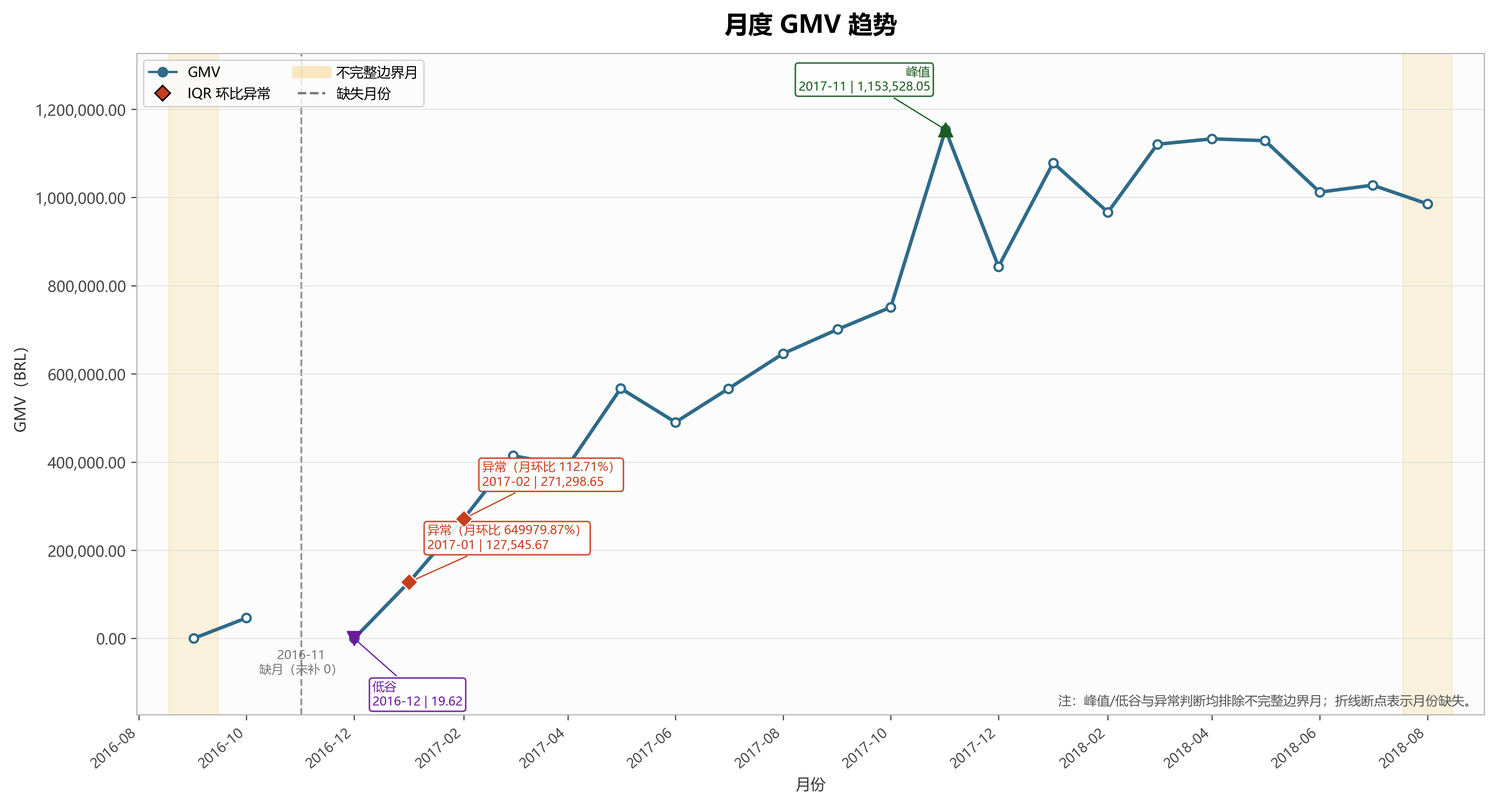
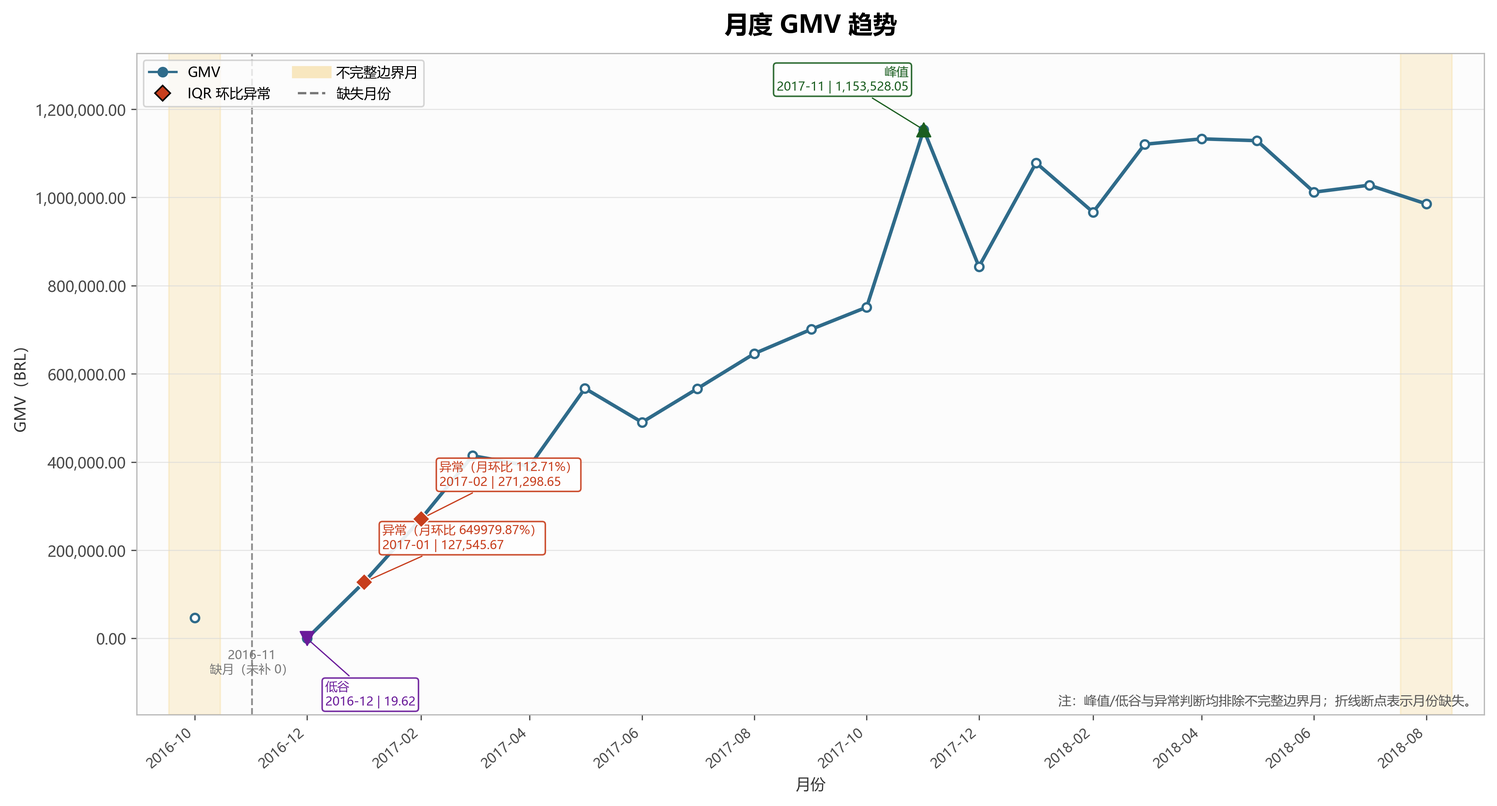
fix: update business overview metrics and reports

diff --git a/src/analysis/business_overview/business_overview_trends.py b/src/analysis/business_overview/business_overview_trends.py
@@ -28,12 +28,12 @@ from matplotlib.lines import Line2D
 from matplotlib.ticker import FuncFormatter, MaxNLocator
 
 
-ROOT = Path(__file__).resolve().parents[2]
+ROOT = Path(__file__).resolve().parents[3]
 DEFAULT_CSV = ROOT / "outputs/data/02_business_overview/monthly_kpi.csv"
 DEFAULT_DB = ROOT / "database/brazil_ecommerce.db"
-FIGURE_DIR = ROOT / "outputs/figures/02_business_overview"
+FIGURE_DIR = ROOT / "visualizations/business_overview"
 DIAGNOSTIC_CSV = ROOT / "outputs/data/02_business_overview/monthly_trend_diagnostics.csv"
-REPORT_PATH = ROOT / "reports/02_business_overview/business_trend_analysis.md"
+REPORT_PATH = ROOT / "reports/business_analysis/business_trend_analysis.md"
 
 EXPECTED_COLUMNS = [
     "month",
@@ -55,7 +55,7 @@ METRICS = {
     "order_count": {
         "title": "月度订单量趋势",
         "label": "订单量",
-        "ylabel": "有效订单量（单）",
+        "ylabel": "正支付已送达订单量（单）",
         "color": "#3A8D75",
         "money": False,
         "filename": "02_order_count_trend.png",
@@ -205,8 +205,7 @@ def read_and_validate(csv_path: Path, database_path: Path) -> tuple[pd.DataFrame
 
 def add_diagnostics(df: pd.DataFrame) -> tuple[pd.DataFrame, dict[str, tuple[float, float]]]:
     result = df.copy()
-    first_month, last_month = result["month"].iloc[[0, -1]]
-    result["is_boundary_month"] = result["month"].isin([first_month, last_month])
+    result["is_boundary_month"] = result["month"].isin(["2016-09", "2018-08"])
     month_number = result["date"].dt.year * 12 + result["date"].dt.month
     result["previous_observed_month"] = result["month"].shift(1)
     result["data_gap_before"] = ~month_number.diff().eq(1)
@@ -683,12 +682,12 @@ def generate_report(
 - 字段：`month`、`gmv`、`order_count`、`average_order_value`、`new_users`、`active_users`，与公共层字段完全一致。
 - 覆盖范围：{validation.start_month} 至 {validation.end_month}，共 {validation.row_count} 个观测月份；源文件按月升序，重复月份 {validation.duplicate_months} 个。
 - 缺失月份：{missing_text}。未填充为 0，图中的折线在缺月处主动断开。
-- 空值：{format_nulls(validation.null_counts)}。该空值位于覆盖初期边界月，符合 GMV 为 0、无有效支付订单时 AOV 返回 NULL 的既有口径。
+- 空值：{format_nulls(validation.null_counts)}。公共层仅保留正支付 delivered 订单，AOV 与订单量使用同一订单范围。
 - CSV 与数据库 View：{'完全一致' if validation.db_matches_csv else '不一致'}。
 
 ### 数据边界
 
-2016-09 是业务数据覆盖初期，仅从月中开始；2018-08 是数据截止月，未覆盖完整自然月。两个月均保留在图中并以黄色背景标注，但不参与正常峰值、低谷、环比异常阈值和业务阶段判断。2016-11 在公共层中缺失，报告与图表均保留这一时间缺口，不补 0。新增用户是观察期内首次产生 delivered 订单的用户，覆盖开始前历史缺失可能导致早期存量用户被识别为新增用户。
+全部 delivered 数据从 2016-09 月中开始，但该月唯一 delivered 订单没有正支付，因此不进入本支付型公共层。2018-08 是数据截止月，未覆盖完整自然月，保留在图中并以黄色背景标注，但不参与正常峰值、低谷、环比异常阈值和业务阶段判断。2016-11 在公共层中缺失，报告与图表均保留这一时间缺口，不补 0。新增用户是观察期内首次产生正支付 delivered 订单的用户，覆盖开始前历史缺失可能导致早期存量用户被识别为新增用户。
 
 ## 2. 五项核心指标总体趋势
 
@@ -698,11 +697,11 @@ def generate_report(
 - **新增用户：** {overall_trend_text(df, 'new_users')}
 - **活跃用户：** {overall_trend_text(df, 'active_users')}
 
-![核心指标总览](../../outputs/figures/02_business_overview/06_core_metrics_overview.png)
+![核心指标总览](../../visualizations/business_overview/06_core_metrics_overview.png)
 
 ## 3. 业务阶段划分
 
-阶段划分只使用 GMV、订单量、新增用户、活跃用户四项共同趋势，排除 2016-09 和 2018-08。方法是对四指标做 `log1p` 与标准化，对 1—4 个有序阶段进行动态规划（每段至少 3 个观测月），以段内平方误差最小并用 BIC 惩罚段数；BIC 越低越优。本次结果为：{bic_text}，自动选择 {len(stages)} 个阶段。缺失的 2016-11 不参与拟合，也未补值。
+阶段划分只使用 GMV、订单量、新增用户、活跃用户四项共同趋势，排除不完整的 2018-08。方法是对四指标做 `log1p` 与标准化，对 1—4 个有序阶段进行动态规划（每段至少 3 个观测月），以段内平方误差最小并用 BIC 惩罚段数；BIC 越低越优。本次结果为：{bic_text}，自动选择 {len(stages)} 个阶段。缺失的 2016-11 不参与拟合，也未补值。
 
 | 阶段 | 起止月份 | 观测月数 | 主要变化 | 共同趋势依据 |
 |---|---|---:|---|---|

diff --git a/docs/monthly_kpi_dictionary.md b/docs/monthly_kpi_dictionary.md
@@ -2,25 +2,25 @@
 
 ## 1. 数据层用途
 
-`monthly_kpi` 是阶段二 Member 1 提供给 Member 2 和 Member 3 统一使用的月度公共数据层。它集中计算 GMV、有效订单量、客单价、新增用户数和活跃用户数，避免成员重复计算基础指标或采用不一致口径。本层仅提供公共指标结果，不包含趋势、增长率、季节性、地域、品类、留存或可视化分析。
+`monthly_kpi` 是阶段二 Member 1 提供给 Member 2 和 Member 3 统一使用的支付型月度公共数据层。它集中计算同一批“正支付且已送达”订单的 GMV、订单量、客单价、新增用户数和活跃用户数，避免一张公共表混合全部 delivered 与正支付 delivered 两种订单范围。本层仅提供公共指标结果，不包含趋势、增长率、季节性、地域、品类、留存或可视化分析。
 
-数据层粒度为“存在 delivered 订单的自然月”，每月最多一行。`month` 采用 `YYYY-MM` 格式，底层时间字段统一为 `orders.order_purchase_timestamp`（实际通过 `vw_orders_clean.order_purchase_timestamp` 使用）。
+数据层粒度为“存在正支付 delivered 订单的自然月”，每月最多一行。`month` 采用 `YYYY-MM` 格式，底层时间字段统一为 `orders.order_purchase_timestamp`（实际通过 `vw_orders_clean.order_purchase_timestamp` 使用）。未支付或订单级正支付金额不大于 0 的 delivered 订单仍保留在有效订单基础指标中，但不进入本支付型公共层。
 
 ## 2. 字段说明
 
 ### `month`
 
 - 中文名称：月份
-- 业务定义：有效订单按购买时间归属的自然月，是本公共层的唯一维度。
+- 业务定义：正支付 delivered 订单按购买时间归属的自然月，是本公共层的唯一维度。
 - 计算公式：`STRFTIME('%Y-%m', vw_orders_clean.order_purchase_timestamp)`。
 - 数据来源：`vw_orders_clean`（来源于 `orders`）。
 - 时间字段：`orders.order_purchase_timestamp`。
 - 统计粒度：自然月，格式为 `YYYY-MM`。
-- 订单状态范围：`orders.order_status = 'delivered'`。
+- 订单状态范围：`orders.order_status = 'delivered'`，且订单级正支付金额大于 0。
 - 去重字段：按月份分组；月内订单以 `orders.order_id` 去重。
 - 空值及异常处理：购买时间为空、不可解析或无法生成 `YYYY-MM` 的记录不计入；`vw_orders_clean` 已排除关键时间无效记录。
 - 适用范围：作为五项月度 KPI 的统一月份键。
-- 使用限制：仅输出存在 delivered 订单的月份，不人为补月；缺失月份应单独检查和披露。
+- 使用限制：仅输出存在正支付 delivered 订单的月份，不人为补月；只有未支付 delivered 订单的月份不会出现在本表中，缺失月份应结合全部 delivered 订单另行检查和披露。
 
 ### `gmv`
 
@@ -32,64 +32,64 @@
 - 统计粒度：支付明细先聚合至订单级，再按自然月汇总。
 - 订单状态范围：`orders.order_status = 'delivered'`，且订单级有效支付金额大于 0。
 - 去重字段：支付先按 `orders.order_id` 聚合，订单连接后仍以 `order_id` 为粒度。
-- 空值及异常处理：排除 `payment_value` 为 NULL、0 或负数的支付记录；没有有效支付记录的 delivered 订单不产生 GMV；无 GMV 的有效订单月份返回 `0.0`。
+- 空值及异常处理：排除 `payment_value` 为 NULL、0 或负数的支付记录；没有订单级正支付金额的 delivered 订单不进入本公共层。
 - 适用范围：衡量月度平台支付金额口径的成交规模。
 - 使用限制：不得将支付表与商品、评论等其他一对多表直接连接后汇总；GMV 与基于 `order_items.price` 的商品销售额不是同一口径。
 
 ### `order_count`
 
-- 中文名称：有效订单量
-- 业务定义：当月状态为 delivered 的去重订单数量，不受订单是否存在有效支付记录影响。
+- 中文名称：正支付已送达订单量
+- 业务定义：当月订单级正支付金额大于 0 且状态为 delivered 的去重订单数量。
 - 计算公式：`COUNT(DISTINCT orders.order_id)`。
-- 数据来源：`vw_orders_clean`（来源于 `orders`）。
+- 数据来源：`vw_orders_clean`（来源于 `orders`）和按 `order_id` 汇总后的 `vw_order_payments_clean`（来源于 `order_payments`）。
 - 时间字段：`orders.order_purchase_timestamp`。
 - 统计粒度：自然月 × 订单级。
-- 订单状态范围：`orders.order_status = 'delivered'`。
+- 订单状态范围：`orders.order_status = 'delivered'`，且订单级正支付金额大于 0。
 - 去重字段：`orders.order_id`。
-- 空值及异常处理：`order_id` 为空或购买时间无效的记录不计入；公共层以存在 delivered 订单的月份为基表，因此该字段不为 NULL。
-- 适用范围：衡量月度有效成交订单规模。
-- 使用限制：不能用支付明细数、商品明细数、评论数或有效支付订单量替代；字段名固定为 `order_count`。
+- 空值及异常处理：`order_id` 为空、购买时间无效或订单级正支付金额不大于 0 的记录不计入；该字段不为 NULL。
+- 适用范围：衡量月度正支付且已送达的成交订单规模。
+- 使用限制：不能用支付明细数、商品明细数、评论数或全部 delivered 有效订单量替代；字段名继续固定为 `order_count`，但其范围由本公共层的正支付 delivered 过滤条件限定。
 
 ### `average_order_value`
 
 - 中文名称：客单价
 - 业务定义：当月有效支付且已送达订单的支付金额总和，除以同口径有效支付订单量。
-- 计算公式：`average_order_value = gmv / paid_order_count`；其中 `paid_order_count` 为状态 delivered、订单级有效支付金额大于 0、按 `order_id` 去重的订单量。
+- 计算公式：`average_order_value = gmv / order_count`；本表的 `order_count` 已限定为状态 delivered、订单级正支付金额大于 0、按 `order_id` 去重的订单量。
 - 数据来源：`vw_order_payments_clean`（来源于 `order_payments`）和 `vw_orders_clean`（来源于 `orders`）。GMV 与 AOV 共用同一个订单级支付 CTE。
 - 时间字段：`orders.order_purchase_timestamp`。
 - 统计粒度：自然月；底层支付先聚合至订单级。
 - 订单状态范围：`orders.order_status = 'delivered'`，且订单级有效支付金额大于 0。
 - 去重字段：分母按 `orders.order_id` 去重。
-- 空值及异常处理：排除无有效支付、支付金额为空或非正的订单；`paid_order_count = 0` 时返回 NULL，不改用 `order_count`。
+- 空值及异常处理：排除无有效支付、支付金额为空或非正的订单；`order_count = 0` 时返回 NULL。
 - 适用范围：衡量月度有效支付订单的平均支付金额。
-- 使用限制：分母不是全部 delivered 订单量 `order_count`；内部字段 `paid_order_count` 不进入最终 View 或 CSV。
+- 使用限制：分母不是平台全部 delivered 有效订单量，而是本支付型公共层中的 `order_count`。
 
 ### `new_users`
 
 - 中文名称：新增用户数
-- 业务定义：完整数据观察期内首次产生 delivered 订单，且首购自然月等于统计月份的去重用户数量。
-- 计算公式：先按 `customers.customer_unique_id` 计算完整 delivered 历史中的 `MIN(orders.order_purchase_timestamp)`，再按首购月份 `COUNT(*)`。
+- 业务定义：完整数据观察期内首次产生正支付 delivered 订单，且首次正支付购买自然月等于统计月份的去重用户数量。
+- 计算公式：先按 `customers.customer_unique_id` 计算完整正支付 delivered 历史中的 `MIN(orders.order_purchase_timestamp)`，再按首购月份 `COUNT(*)`。
 - 数据来源：`vw_orders_clean`（来源于 `orders`）和原始维表 `customers`；连接条件为 `orders.customer_id = customers.customer_id`。
 - 时间字段：`orders.order_purchase_timestamp`。
 - 统计粒度：自然月 × 用户首购。
-- 订单状态范围：仅使用 `orders.order_status = 'delivered'` 的订单确定首购。
+- 订单状态范围：仅使用 `orders.order_status = 'delivered'` 且订单级正支付金额大于 0 的订单确定首购。
 - 去重字段：`customers.customer_unique_id`。
 - 空值及异常处理：用户唯一标识或购买时间为空的记录不计入；首购时间先基于完整历史计算；同一用户只归属一个首购月份；无新增用户的结果月份返回 0。
 - 适用范围：衡量数据观察期口径下的月度首次购买用户规模。
-- 使用限制：新增用户不是注册用户；观察期开始前历史缺失可能将存量用户误判为新增用户，不能在每个月内部重新计算首购。
+- 使用限制：这里是“首次正支付购买用户”，不是注册用户，也不等同于基于全部 delivered 订单定义的新增用户；观察期开始前历史缺失可能将存量用户误判为新增用户，不能在每个月内部重新计算首购。
 
 ### `active_users`
 
 - 中文名称：活跃用户数
-- 业务定义：当月至少产生一笔 delivered 订单的去重用户数量。
+- 业务定义：当月至少产生一笔正支付 delivered 订单的去重用户数量。
 - 计算公式：`COUNT(DISTINCT customers.customer_unique_id)`。
 - 数据来源：`vw_orders_clean`（来源于 `orders`）和原始维表 `customers`；连接条件为 `orders.customer_id = customers.customer_id`。
 - 时间字段：`orders.order_purchase_timestamp`。
 - 统计粒度：自然月 × 用户级。
-- 订单状态范围：`orders.order_status = 'delivered'`。
+- 订单状态范围：`orders.order_status = 'delivered'`，且订单级正支付金额大于 0。
 - 去重字段：`customers.customer_unique_id`；不得使用 `customer_id` 作为最终去重字段。
 - 空值及异常处理：用户唯一标识为空的记录不计入；无活跃用户的结果月份返回 0。
-- 适用范围：衡量月度产生有效订单的唯一用户规模。
+- 适用范围：衡量月度产生正支付 delivered 订单的唯一用户规模。
 - 使用限制：不代表平台注册用户；不同月份的活跃用户可能重复，不能跨月直接相加解释为整个观察期的唯一活跃用户数。
 
 ## 3. 数据来源和连接关系
@@ -100,17 +100,17 @@
 - 支付连接：`vw_order_payments_clean.order_id = vw_orders_clean.order_id`，且连接发生在支付按 `order_id` 聚合之后。
 - 时间口径：`orders.order_purchase_timestamp`，按自然月统计，输出格式为 `YYYY-MM`。
 - 用户口径：`customers.customer_unique_id`，连接路径为 `orders.customer_id = customers.customer_id`。
-- 有效订单口径：`orders.order_status = 'delivered'`，订单按 `orders.order_id` 去重。
+- 本公共层订单口径：`orders.order_status = 'delivered'` 且订单级正支付金额大于 0，订单按 `orders.order_id` 去重。
 - 地域口径：阶段一指标定义手册未明确地域口径。本次不自行新增地域字段，也不生成地域分析结果。
 
 ## 4. 使用限制与数据覆盖披露
 
 - GMV 不能通过支付表与商品、评论或其他一对多表直接连接后汇总，否则金额会被放大。
 - GMV 是支付金额口径，与商品销售额不是同一口径。
-- `order_count` 是全部 delivered 去重订单量，与是否有有效支付无关。
-- AOV 分母是有效支付订单量，不是 `order_count`。
-- 新增用户基于完整观察历史中的首次 delivered 订单，且不代表注册用户。
+- `order_count` 是正支付 delivered 去重订单量；平台全部 delivered 有效订单量仍应使用独立核心指标查询。
+- AOV 分母就是本表同口径的 `order_count`。
+- 新增用户基于完整观察历史中的首次正支付 delivered 订单，且不代表注册用户。
 - 活跃用户按 `customer_unique_id` 去重；月度活跃用户不能跨月直接相加得到观察期唯一用户数。
-- 当前 delivered 订单购买时间覆盖 `2016-09-15 12:16:38` 至 `2018-08-29 15:00:37`。首月 `2016-09` 和末月 `2018-08` 均不是完整自然月；本层不增加 `is_complete_month` 字段。
-- 当前观察范围 `2016-09` 至 `2018-08` 的自然月序列中缺少 `2016-11`；本层只披露缺月，不人为补月。
+- 当前全部 delivered 订单购买时间从 `2016-09-15 12:16:38` 开始，但 `2016-09` 唯一 delivered 订单没有正支付，因此本支付型公共层从 `2016-10` 开始；末月 `2018-08` 仍不是完整自然月。本层不增加 `is_complete_month` 字段。
+- 当前公共层观察范围 `2016-10` 至 `2018-08` 的自然月序列中缺少 `2016-11`；本层只披露缺月，不人为补月。
 - 地域口径仅做缺失定义记录，本次不生成任何地域汇总或分析。

diff --git a/reports/business_analysis/02_business_overview_report.md b/reports/business_analysis/02_business_overview_report.md
@@ -1,6 +1,7 @@
 | 日期 | 修改人 | 版本号 | 备注 |
 |---|---|---|---|
 | 2026-08-10 | FL | v1.0 | 阶段二最终整合与质量控制 |
+| 2026-08-12 | FL | v1.1 | 月度公共层统一为正支付 delivered 订单范围 |
 
 # 阶段二：整体业务大盘诊断最终报告
 
@@ -43,7 +44,7 @@
 - `2016-09` 和 `2018-08` 均为不完整自然月，只保留作边界展示，不参与正式峰值、低谷、环比异常或阶段划分。
 - `2016-11` 没有 delivered 订单，时间序列保留缺口，不补 0。
 - 正式跨年同期比较统一采用完整且等长的 `2017-01—2017-07` 与 `2018-01—2018-07`。
-- 新增用户是观察期内首次产生 delivered 订单的用户。由于观察期开始前的历史不可见，早期新增用户存在左截尾限制。
+- 月度公共层为支付型分析层：仅纳入正支付 delivered 订单；其中新增用户指观察期内首次产生正支付 delivered 订单的用户。由于观察期开始前的历史不可见，早期新增用户存在左截尾限制。
 
 ### 2.2 核心指标定义
 
@@ -54,12 +55,12 @@
 | GMV | 正支付记录先按 `order_id` 汇总，再限定为 delivered 订单后求和，币种为 BRL |
 | 客单价 AOV | `GMV / 支付订单量` |
 | 唯一用户 | 按 `customer_unique_id` 去重 |
-| 新增用户 | 首次有效购买时间落入统计周期的唯一用户 |
-| 活跃用户 | 统计窗口内至少产生 1 笔 delivered 订单的唯一用户 |
+| 月度公共层新增用户 | 首次正支付 delivered 购买时间落入统计周期的唯一用户 |
+| 月度公共层活跃用户 | 统计窗口内至少产生 1 笔正支付 delivered 订单的唯一用户 |
 | 环比增长率 | `(本月值 - 上一自然月值) / 上一自然月值` |
 | 同比增长率 | `(本月值 - 上年同月值) / 上年同月值` |
 
-月度公共层固定字段为 `month`、`gmv`、`order_count`、`average_order_value`、`new_users` 和 `active_users`。详细定义见 [`docs/monthly_kpi_dictionary.md`](../../docs/monthly_kpi_dictionary.md)。
+月度公共层固定字段为 `month`、`gmv`、`order_count`、`average_order_value`、`new_users` 和 `active_users`，六个字段统一使用正支付 delivered 订单范围；其中 `order_count` 为正支付 delivered 订单量。详细定义见 [`docs/monthly_kpi_dictionary.md`](../../docs/monthly_kpi_dictionary.md)。
 
 ### 2.3 数据粒度与连接控制
 
@@ -89,7 +90,7 @@
 1. 正式月度异常统一采用连续完整月份环比序列的 `Q1 - 1.5 × IQR` 和 `Q3 + 1.5 × IQR`；原增长报告中的 2σ 仅视为探索性检查，不作为正式异常规则。
 2. “订单量低于 1,000”以及固定 `±500%` 不作为正式排除条件，避免以任意阈值替代统计规则。
 3. 2018-08 为不完整月份，原有 `2017-01—08` 与 `2018-01—08` 的结构比较只作为探索性结果；正式结构比较统一重算为 1-7 月。
-4. GMV 驱动恒等式使用“支付订单量 × AOV”；月度公共层的 `order_count` 为全部有效订单量，两者只差 1 笔无正支付订单，但报告中不再混称。
+4. GMV 驱动恒等式使用“支付订单量 × AOV”；月度公共层的 `order_count` 已统一为正支付 delivered 订单量。平台全部 delivered 有效订单量仍作为独立核心指标保留。
 5. 原始报告中所有外部原因判断均降级为解释假设；没有营销、成本、支付失败或物流证据时，不使用“导致”“提升了”等因果措辞。
 
 ## 3. 核心指标趋势与业务阶段
@@ -112,7 +113,7 @@
 
 ### 3.2 业务阶段划分
 
-业务阶段仅使用 GMV、订单量、新增用户和活跃用户四项规模指标，对其执行 `log1p`、标准化和有序动态规划分段，并使用 BIC 控制分段复杂度。2016-09、2018-08 和缺失的 2016-11 不进入拟合。
+业务阶段仅使用支付型月度公共层的 GMV、正支付订单量、新增用户和活跃用户四项规模指标，对其执行 `log1p`、标准化和有序动态规划分段，并使用 BIC 控制分段复杂度。2016-09 不在支付型公共层中，2018-08 和缺失的 2016-11 不进入拟合。
 
 | 阶段 | 时间范围 | 观测月数 | 核心特征 |
 |---|---|---:|---|

diff --git a/reports/business_analysis/growth_quality_holiday_seasonality_analysis.md b/reports/business_analysis/growth_quality_holiday_seasonality_analysis.md
@@ -7,16 +7,15 @@
    - 客单价环比和同比增长率；
    - 新增用户、活跃用户环比和同比增长率。
    
-   新增用户：期间内第一次出现购买记录的用户
+   新增用户：期间内第一次出现正支付 delivered 购买记录的用户
    
-   活跃用户：一个月内有一次及以上购买记录的用户
+   活跃用户：一个月内有一次及以上正支付 delivered 购买记录的用户
    
 所得计算结果如下：
 
 | month   | gmv_mom  | gmv_yoy    | order_count_mom | order_count_yoy | aov_mom  | aov_yoy | new_users_mom | new_users_yoy | active_users_mom | active_users_yoy |
 | ------- | -------- | ---------- | --------------- | --------------- | -------- | ------- | ------------- | ------------ | ---------------- | ---------------- |
-| 2016-09 |          |            |                 |                 |          |         |               |              |                  |                  |
-| 2016-10 |          |            | 264.0           |                 |          |         | 261.0         |              | 261.0            |                  |
+| 2016-10 |          |            |                 |                 |          |         |               |              |                  |                  |
 | 2016-11 |          |            |                 |                 |          |         |               |              |                  |                  |
 | 2016-12 |          |            |                 |                 |          |         |               |              |                  |                  |
 | 2017-01 | 6499.7987|            | 749.0           |                 | 7.6677   |         | 716.0         |              | 717.0            |                  |
@@ -70,13 +69,12 @@ GMV环比增长率为正有4种原因：
 
 | month   | gmv_mom_change | monthly_order_count | diagnosis |
 | ------- | -------------- | ------------------- | --------- |
-| 2016-09 | null           | 1                   | order_count_too_low |
 | 2016-10 | null           | 265                 | order_count_too_low |
 | 2016-12 | -0.9996        | 1                   | order_count_too_low |
 | 2017-01 | 6499.7987      | 750                 | order_count_too_low, extreme_increase |
 
 5. 判断增长是否稳定、是否具有持续性
-- 排除月份2016-09，2016-10，2016-12，2017-01
+- 排除月份2016-10，2016-12，2017-01；2016-09 因仅有无正支付 delivered 订单，已不进入支付型月度公共层
 - 计算GMV环比增长率std=0.3153，较为稳定
 
 ## 第二项节假日与季节性分析
@@ -87,7 +85,7 @@ GMV环比增长率为正有4种原因：
 - 选取Black Friday、Christmas、Brazilian Carnival
 
 2. 比较节假日月份与普通月份的GMV、订单量和客单价
-- 月份已排除2016-09，2016-10，2016-12，2017-01
+- 月份已排除2016-10，2016-12，2017-01；2016-09 不在支付型月度公共层中
 
 结果如下：
 
@@ -159,7 +157,7 @@ GMV节后修复，回到接近基准水平，无下降
 
 5. 比较2017年和2018年相同月份，识别可能重复的季节性迹象
 - 通过python(src/analysis/business_overview/growth_quality.py和src/analysis/business_overview/seasonality_analysis.py)作图得到GMV变化图和GMV环比增长率变化图（visualization/business_overview/monthly_growth_rate.png和visualization/business_overview/seasonal_pattern.png）
-- 异常月份不参与制图（2016‑09，2016‑10，2016‑12，2017‑01）
+- 异常月份不参与制图（2016‑10，2016‑12，2017‑01）；2016‑09 不在支付型月度公共层中
 - 观察两图并无明显季节性迹象
 
 

diff --git a/reports/business_analysis/business_trend_analysis.md b/reports/business_analysis/business_trend_analysis.md
@@ -4,14 +4,14 @@
 
 - 数据源：`outputs/data/02_business_overview/monthly_kpi.csv`，并与 SQLite View `monthly_kpi` 逐值核对。
 - 字段：`month`、`gmv`、`order_count`、`average_order_value`、`new_users`、`active_users`，与公共层字段完全一致。
-- 覆盖范围：2016-09 至 2018-08，共 23 个观测月份；源文件按月升序，重复月份 0 个。
+- 覆盖范围：2016-10 至 2018-08，共 22 个观测月份；源文件按月升序，重复月份 0 个。
 - 缺失月份：2016-11。未填充为 0，图中的折线在缺月处主动断开。
-- 空值：`average_order_value` 1 个。该空值位于覆盖初期边界月，符合 GMV 为 0、无有效支付订单时 AOV 返回 NULL 的既有口径。
+- 空值：无。公共层仅保留正支付 delivered 订单，AOV 与订单量使用同一订单范围。
 - CSV 与数据库 View：完全一致。
 
 ### 数据边界
 
-2016-09 是业务数据覆盖初期，仅从月中开始；2018-08 是数据截止月，未覆盖完整自然月。两个月均保留在图中并以黄色背景标注，但不参与正常峰值、低谷、环比异常阈值和业务阶段判断。2016-11 在公共层中缺失，报告与图表均保留这一时间缺口，不补 0。新增用户是观察期内首次产生 delivered 订单的用户，覆盖开始前历史缺失可能导致早期存量用户被识别为新增用户。
+全部 delivered 数据从 2016-09 月中开始，但该月唯一 delivered 订单没有正支付，因此不进入本支付型公共层。2018-08 是数据截止月，未覆盖完整自然月，保留在图中并以黄色背景标注，但不参与正常峰值、低谷、环比异常阈值和业务阶段判断。2016-11 在公共层中缺失，报告与图表均保留这一时间缺口，不补 0。新增用户是观察期内首次产生正支付 delivered 订单的用户，覆盖开始前历史缺失可能导致早期存量用户被识别为新增用户。
 
 ## 2. 五项核心指标总体趋势
 
@@ -21,11 +21,11 @@
 - **新增用户：** 完整可比期由 262 人 增至 5,949 人（+2170.61%），峰值出现在 2017-11。
 - **活跃用户：** 完整可比期由 262 人 增至 6,100 人（+2228.24%），峰值出现在 2017-11。
 
-![核心指标总览](../../outputs/figures/02_business_overview/06_core_metrics_overview.png)
+![核心指标总览](../../visualizations/business_overview/06_core_metrics_overview.png)
 
 ## 3. 业务阶段划分
 
-阶段划分只使用 GMV、订单量、新增用户、活跃用户四项共同趋势，排除 2016-09 和 2018-08。方法是对四指标做 `log1p` 与标准化，对 1—4 个有序阶段进行动态规划（每段至少 3 个观测月），以段内平方误差最小并用 BIC 惩罚段数；BIC 越低越优。本次结果为：1 段=12.18；2 段=-56.53；3 段=-48.91；4 段=-35.96，自动选择 2 个阶段。缺失的 2016-11 不参与拟合，也未补值。
+阶段划分只使用 GMV、订单量、新增用户、活跃用户四项共同趋势，排除不完整的 2018-08。方法是对四指标做 `log1p` 与标准化，对 1—4 个有序阶段进行动态规划（每段至少 3 个观测月），以段内平方误差最小并用 BIC 惩罚段数；BIC 越低越优。本次结果为：1 段=12.18；2 段=-56.53；3 段=-48.91；4 段=-35.96，自动选择 2 个阶段。缺失的 2016-11 不参与拟合，也未补值。
 
 | 阶段 | 起止月份 | 观测月数 | 主要变化 | 共同趋势依据 |
 |---|---|---:|---|---|

diff --git a/docs/unified_analysis_standards.md b/docs/unified_analysis_standards.md
@@ -4,6 +4,7 @@
 | 2026-08-10 | FL | v2.1 | 按更新分工取消经济性代理，无法映射英文的品类统一标记为 unknown，并收敛公共层字段 |
 | 2026-08-11 | FL | v2.2 | 补充阶段四品类总体与月度销售汇总基础层 |
 | 2026-08-11 | hongshucham | v2.3 | 补充5.6 品类 CMGR 计算与品类分类规则 |
+| 2026-08-12 | FL | v2.4 | 月度 KPI 公共层统一为正支付 delivered 订单范围 |
 
 # 阶段一至阶段四全团队统一分析口径
 
@@ -130,10 +131,10 @@
 
 ### 3.2 月度 KPI、增长和季节性
 
-- 月度公共层固定字段为 `month`、`gmv`、`order_count`、`average_order_value`、`new_users`、`active_users`，定义见 `docs/monthly_kpi_dictionary.md`。
+- 月度公共层固定字段为 `month`、`gmv`、`order_count`、`average_order_value`、`new_users`、`active_users`，并统一限定为订单级正支付金额大于 0 的 delivered 订单；这是支付型月度分析层，不改变平台“有效订单量=全部 delivered 去重订单”的独立核心指标定义。字段细节见 `docs/monthly_kpi_dictionary.md`。
 - 环比增长率：`(本月值 - 上一自然月值) / 上一自然月值`；同比增长率：`(本月值 - 上年同月值) / 上年同月值`。
 - 前值缺失、月份不连续或分母为 0 时返回 `NULL`。
-- GMV 驱动拆解使用 `GMV = 支付订单量 × AOV`。若为保持与公共表字段一致而使用全部有效订单量，必须明确剩余无正支付订单造成的差异，不能静默混用。
+- GMV 驱动拆解使用 `GMV = monthly_kpi.order_count × AOV`；其中公共层 `order_count` 已统一为正支付 delivered 订单量，不得替换为全部 delivered 有效订单量。
 - 节假日、季节性分析必须使用订单级正支付数据和 `customer_unique_id`；比较不同长度窗口时使用日均 GMV、日均订单量和 AOV。
 - 节日前、中、后窗口及节假日日期较多，具体定义写在对应分析 SQL/报告中；同一节日在所有成员文件中必须复用同一日期表，修改时同步更新本文档和相关日期表。
 - 数据只能支持相关性或结构差异时，报告使用“相关”“伴随”“可能解释”，不得直接写“导致”“提升了”或“造成了”。

diff --git a/README.md b/README.md
@@ -129,7 +129,7 @@ python -c "from pathlib import Path; import sqlite3; c=sqlite3.connect(r'databas
 python -c "from pathlib import Path; import sqlite3; c=sqlite3.connect(r'database/brazil_ecommerce.db'); c.executescript(Path(r'sql/02_business_overview/00_monthly_kpi_view.sql').read_text(encoding='utf-8-sig')); c.close()"
 ```
 
-该 SQL 可重复执行，会创建或重建 `monthly_kpi` View。View 按自然月输出以下字段：
+该 SQL 可重复执行，会创建或重建支付型 `monthly_kpi` View。View 仅纳入订单级正支付金额大于 0 的 delivered 订单，并按自然月输出以下字段：
 
 ```text
 month,gmv,order_count,average_order_value,new_users,active_users
